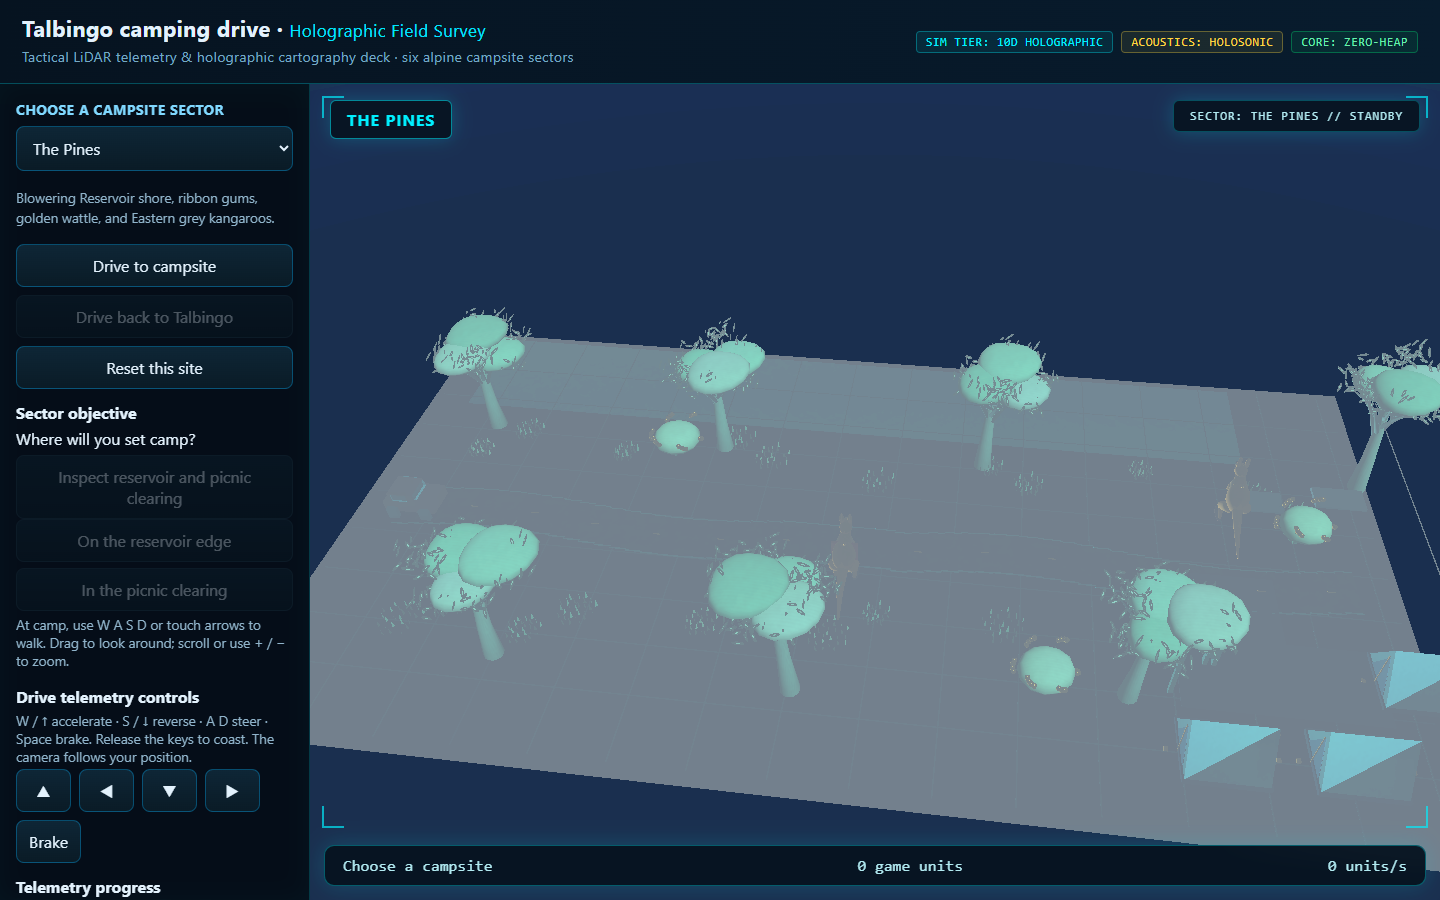
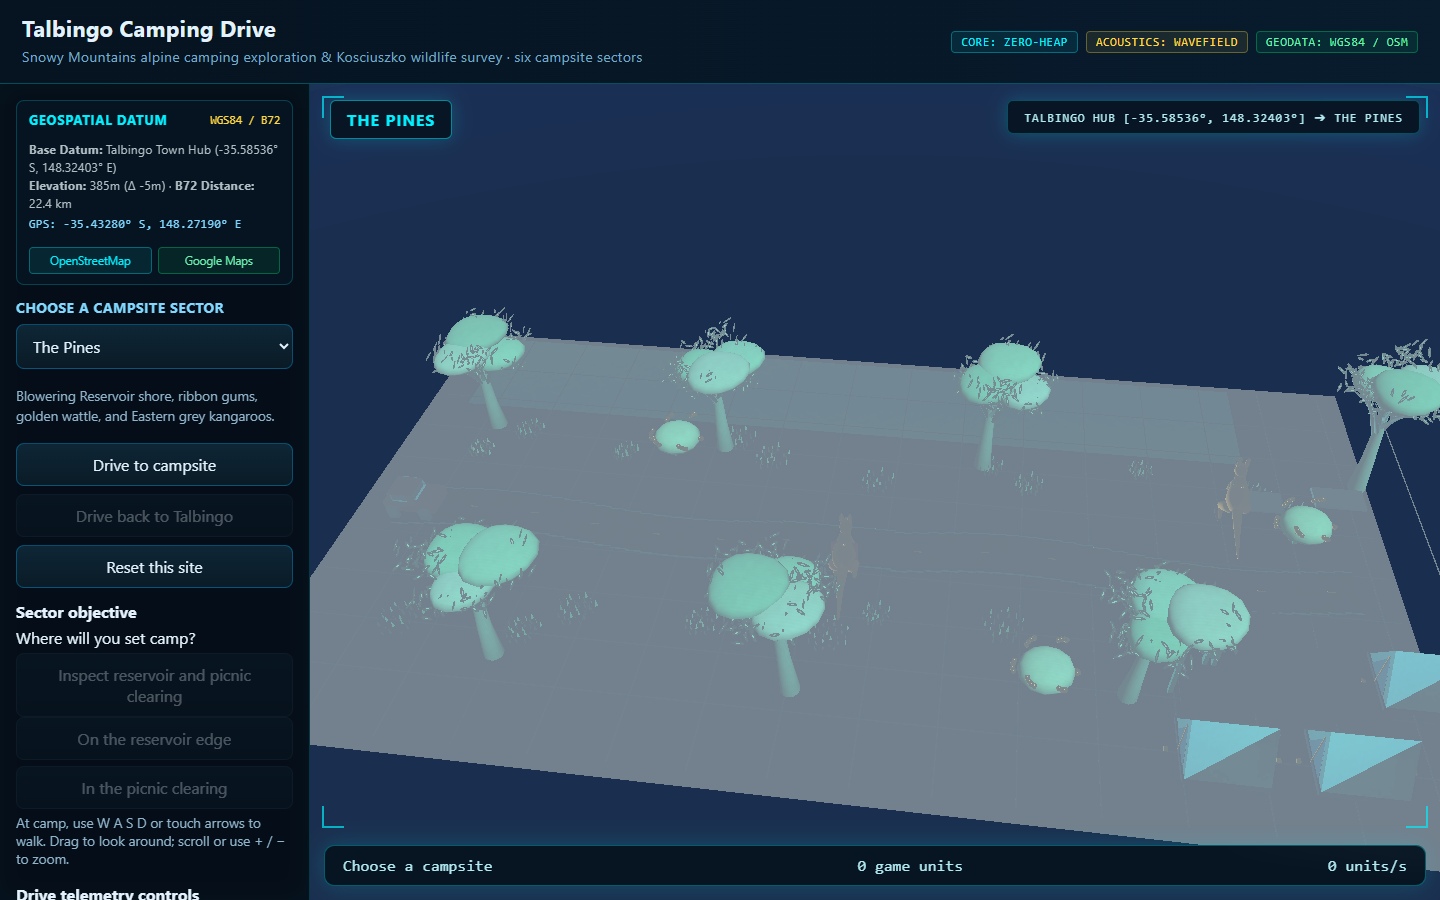
fix(talbingo): restore authentic Talbingo Camping Drive identity and integrate WGS84 OpenStreetMap datum

Changed region(s): [[0.0, 0.0, 0.4375, 1.0], [0.6875, 0.0933, 0.9688, 0.1556], [0.625, 0.0311, 0.9688, 0.0622]]

diff --git a/web/talbingo.html b/web/talbingo.html
@@ -40,8 +40,23 @@ canvas{display:block;width:100%;height:calc(100vh - 87px);min-height:450px}
 @media(min-width:761px){main{height:calc(100vh - 84px);min-height:640px}aside{height:100%;overflow-y:auto}.play{height:100%;overflow:hidden}canvas{height:100%;min-height:0}}
 @media(max-width:760px){main{display:flex;flex-direction:column}.play{order:0}.play-touch{display:flex!important;position:absolute;left:10px;right:10px;bottom:60px;z-index:5;justify-content:center;flex-wrap:wrap}.play-touch button{background:#0e293de8;padding:8px;min-width:42px}aside{order:1}.touch:not(.play-touch){display:none}}
 </style></head><body>
-<header><div><h1>Talbingo camping drive · <span style="color:#00e5ff;font-size:1.05rem;font-weight:400;letter-spacing:0.03em">Holographic Field Survey</span></h1><p class="sub">Tactical LiDAR telemetry & holographic cartography deck · six alpine campsite sectors</p></div><div class="pills"><span class="pill">SIM TIER: 10D HOLOGRAPHIC</span><span class="pill pill-gold">ACOUSTICS: HOLOSONIC</span><span class="pill pill-green">CORE: ZERO-HEAP</span></div></header>
+<header><div><h1>Talbingo Camping Drive</h1><p class="sub">Snowy Mountains alpine camping exploration & Kosciuszko wildlife survey · six campsite sectors</p></div><div class="pills"><span class="pill">CORE: ZERO-HEAP</span><span class="pill pill-gold">ACOUSTICS: WAVEFIELD</span><span class="pill pill-green">GEODATA: WGS84 / OSM</span></div></header>
 <main><aside>
+<div class="stack" style="background:#071624c0;padding:10px 12px;border:1px solid #00f0ff33;border-radius:8px">
+  <div style="display:flex;justify-content:space-between;align-items:center">
+    <strong style="color:#00f0ff;font-size:.82rem;text-transform:uppercase;letter-spacing:.05em">Geospatial Datum</strong>
+    <span style="font-size:.72rem;color:#ffd740;font-family:ui-monospace,monospace">WGS84 / B72</span>
+  </div>
+  <div style="font-size:.78rem;color:#b0bec5;line-height:1.45;margin-top:4px">
+    <div><strong>Base Datum:</strong> Talbingo Town Hub (-35.58536° S, 148.32403° E)</div>
+    <div><strong>Elevation:</strong> <span id="site-elevation">390m</span> · <strong>B72 Distance:</strong> <span id="site-distance">0.0 km</span></div>
+    <div id="site-coords" style="font-family:ui-monospace,monospace;color:#80d8ff;margin-top:3px">GPS: -35.58536° S, 148.32403° E</div>
+  </div>
+  <div style="display:flex;gap:6px;margin-top:6px">
+    <a id="osm-link" href="https://www.openstreetmap.org/search?query=Talbingo+&zoom=4&minlon=-160.75195312500003&minlat=13.838079936422476&maxlon=-30.849609375000004&maxlat=56.218923189166624#map=14/-35.58536/148.32403" target="_blank" rel="noopener" style="flex:1;text-align:center;font-size:.72rem;padding:5px 6px;background:#00f0ff14;border:1px solid #00f0ff55;border-radius:4px;color:#00f0ff;text-decoration:none">OpenStreetMap</a>
+    <a id="gmaps-link" href="https://maps.app.goo.gl/okuS2WDUBS4m4tVCA" target="_blank" rel="noopener" style="flex:1;text-align:center;font-size:.72rem;padding:5px 6px;background:#00e67614;border:1px solid #00e67655;border-radius:4px;color:#69f0ae;text-decoration:none">Google Maps</a>
+  </div>
+</div>
 <div class="stack"><label for="site">Choose a campsite sector</label><select id="site"></select></div>
 <p id="site-note" class="small"></p>
 <div class="stack"><button id="start">Drive to campsite</button><button id="return" disabled>Drive back to Talbingo</button><button id="restart">Reset this site</button></div>
@@ -50,15 +65,16 @@ canvas{display:block;width:100%;height:calc(100vh - 87px);min-height:450px}
 <div><strong>Telemetry progress</strong><p id="status" role="status">Loading QualiaDB scene…</p><div class="meter"><span id="progress"></span></div></div>
 <div><strong>Holosonic acoustic wavefield</strong><p class="small">Spatial wavefield synthesis: vector corridor propulsion hum, hydrodynamic fluid resonance, and landmark acoustic focal points.</p><button id="holosonic-toggle" style="display:flex;justify-content:space-between;align-items:center;width:100%"><span>Holosonic wavefield</span><span id="holosonic-badge" style="color:#ffd740;font-weight:700">STANDBY</span></button></div>
 <p class="small"><a href="game.html" style="color:#00e5ff">Main game</a> · Site shapes are original authored approximations. Check official park information before a real trip.</p>
-</aside><section class="play"><canvas id="scene" width="1280" height="760" aria-label="Three dimensional campsite game scene"></canvas><div class="reticle top-left"></div><div class="reticle top-right"></div><div class="reticle bottom-left"></div><div class="reticle bottom-right"></div><div class="overlay" id="place-label">Talbingo</div><div class="overlay telemetry-badge" id="telemetry-coord">LAT: -35.584° S | LON: 148.298° E</div><div class="touch play-touch" style="display:none"><button data-key="w" aria-label="Forward">▲</button><button data-key="a" aria-label="Left">◀</button><button data-key="s" aria-label="Back">▼</button><button data-key="d" aria-label="Right">▶</button><button data-key=" " aria-label="Brake">Brake</button><button data-zoom="in" aria-label="Zoom in">+</button><button data-zoom="out" aria-label="Zoom out">−</button></div><div class="drivehud"><span id="leg">Select a campsite</span><span id="distance">0 game units</span><span id="speed">0 units/s</span></div></section></main>
+</aside><section class="play"><canvas id="scene" width="1280" height="760" aria-label="Three dimensional campsite game scene"></canvas><div class="reticle top-left"></div><div class="reticle top-right"></div><div class="reticle bottom-left"></div><div class="reticle bottom-right"></div><div class="overlay" id="place-label">Talbingo</div><div class="overlay telemetry-badge" id="telemetry-coord">LAT: -35.58536° S | LON: 148.32403° E</div><div class="touch play-touch" style="display:none"><button data-key="w" aria-label="Forward">▲</button><button data-key="a" aria-label="Left">◀</button><button data-key="s" aria-label="Back">▼</button><button data-key="d" aria-label="Right">▶</button><button data-key=" " aria-label="Brake">Brake</button><button data-zoom="in" aria-label="Zoom in">+</button><button data-zoom="out" aria-label="Zoom out">−</button></div><div class="drivehud"><span id="leg">Select a campsite</span><span id="distance">0 game units</span><span id="speed">0 units/s</span></div></section></main>
 <script type="module">
+const TALBINGO_BASE = { lat: -35.58536, lon: 148.32403, elev: 390 };
 const SITES=[
- {name:'The Pines',detail:'Blowering Reservoir shore, ribbon gums, golden wattle, and Eastern grey kangaroos.',task:'Where will you set camp?',choices:['On the reservoir edge','In the picnic clearing'],correct:1,event:'Kangaroo roadside crossing',landmark:'reservoir and picnic clearing',point:[20,-3.5]},
- {name:'Humes Crossing',detail:'Inlet timber crossing, lakeside gums, wattle and swamp wallaby habitat.',task:'What should you inspect before crossing?',choices:['The timber deck','The campsite tents'],correct:0,event:'Wallaby lakeside crossing',landmark:'timber crossing',point:[14.7,-4]},
- {name:'Jounama Creek',detail:'Montane creek corridor, river bottlebrush, granite boulders and resident bare-nosed wombats.',task:'Pick a dry campsite.',choices:['On the creek gravel','Beyond the boulders'],correct:1,event:'Wombat trail crossing',landmark:'creek and boulders',point:[19,-3.5]},
- {name:'Yarrangobilly Village',detail:'River flats, river gums, bottlebrush, historic hut, laughing kookaburras and deer.',task:'Choose a river-safe camp location.',choices:['At the waterline','Near the hut clearing'],correct:1,event:'River road wildlife crossing',landmark:'riverbank hut',point:[20.3,-2.7]},
- {name:"O'Hares",detail:'Steep alpine ash ridge, reservoir lookout platform and basking lace monitors.',task:'Find the safest lookout stop.',choices:['On the ridge platform','On the water edge'],correct:0,event:'Mountain-road wildlife encounter',landmark:'ridge lookout',point:[21.5,-5.1]},
- {name:'Three Mile Dam',detail:'High alpine plain (1400m), gnarled snow gums, alpine tussock marsh and Kiandra brumbies.',task:'Where is the firmest ground?',choices:['On the marsh','On the grassy rise'],correct:1,event:'Alpine road brumby encounter',landmark:'dam and marsh',point:[19,-3.4]}
+ {name:'The Pines',detail:'Blowering Reservoir shore, ribbon gums, golden wattle, and Eastern grey kangaroos.',task:'Where will you set camp?',choices:['On the reservoir edge','In the picnic clearing'],correct:1,event:'Kangaroo roadside crossing',landmark:'reservoir and picnic clearing',point:[20,-3.5],coords:[-35.4328,148.2719],elev:385,distKm:22.4,osm:'https://www.openstreetmap.org/#map=15/-35.4328/148.2719',gmaps:'https://www.google.com/maps/place/The+Pines+Campground/@-35.4328,148.2719,16z'},
+ {name:'Humes Crossing',detail:'Inlet timber crossing, lakeside gums, wattle and swamp wallaby habitat.',task:'What should you inspect before crossing?',choices:['The timber deck','The campsite tents'],correct:0,event:'Wallaby lakeside crossing',landmark:'timber crossing',point:[14.7,-4],coords:[-35.4917,148.2783],elev:386,distKm:15.1,osm:'https://www.openstreetmap.org/#map=15/-35.4917/148.2783',gmaps:'https://www.google.com/maps/place/Humes+Crossing+Campground/@-35.4917,148.2783,16z'},
+ {name:'Jounama Creek',detail:'Montane creek corridor, river bottlebrush, granite boulders and resident bare-nosed wombats.',task:'Pick a dry campsite.',choices:['On the creek gravel','Beyond the boulders'],correct:1,event:'Wombat trail crossing',landmark:'creek and boulders',point:[19,-3.5],coords:[-35.6078,148.3367],elev:420,distKm:4.2,osm:'https://www.openstreetmap.org/#map=15/-35.6078/148.3367',gmaps:'https://www.google.com/maps/place/Jounama+Creek+Campground/@-35.6078,148.3367,16z'},
+ {name:'Yarrangobilly Village',detail:'River flats, river gums, bottlebrush, historic hut, laughing kookaburras and deer.',task:'Choose a river-safe camp location.',choices:['At the waterline','Near the hut clearing'],correct:1,event:'River road wildlife crossing',landmark:'riverbank hut',point:[20.3,-2.7],coords:[-35.6561,148.4719],elev:980,distKm:24.6,osm:'https://www.openstreetmap.org/#map=15/-35.6561/148.4719',gmaps:'https://www.google.com/maps/place/Yarrangobilly+Village+Campground/@-35.6561,148.4719,16z'},
+ {name:"O'Hares",detail:'Steep alpine ash ridge, reservoir lookout platform and basking lace monitors.',task:'Find the safest lookout stop.',choices:['On the ridge platform','On the water edge'],correct:0,event:'Mountain-road wildlife encounter',landmark:'ridge lookout',point:[21.5,-5.1],coords:[-35.6889,148.4550],elev:1120,distKm:29.8,osm:'https://www.openstreetmap.org/#map=15/-35.6889/148.4550',gmaps:'https://www.google.com/maps/place/O\'Hares+Rest+Area/@-35.6889,148.4550,16z'},
+ {name:'Three Mile Dam',detail:'High alpine plain (1400m), gnarled snow gums, alpine tussock marsh and Kiandra brumbies.',task:'Where is the firmest ground?',choices:['On the marsh','On the grassy rise'],correct:1,event:'Alpine road brumby encounter',landmark:'dam and marsh',point:[19,-3.4],coords:[-35.8819,148.4867],elev:1410,distKm:48.5,osm:'https://www.openstreetmap.org/#map=15/-35.8819/148.4867',gmaps:'https://www.google.com/maps/place/Three+Mile+Dam+Campground/@-35.8819,148.4867,16z'}
 ];
 const $=id=>document.getElementById(id), toObj=v=>v instanceof Map?Object.fromEntries([...v].map(([k,x])=>[k,toObj(x)])):Array.isArray(v)?v.map(toObj):v;
 const select=$('site');SITES.forEach((s,i)=>{const o=document.createElement('option');o.value=i;o.textContent=s.name;select.append(o)});
@@ -120,31 +136,32 @@ $('holosonic-toggle').onclick=()=>holosonic.init();
 
 function distanceToLandmark(){const p=SITES[site].point;return Math.hypot(walk.x-p[0],walk.z-p[1]);}
 function updateInspect(){const near=phase==='camp'&&distanceToLandmark()<2.2;$('inspect').disabled=!near;$('objective').textContent=phase==='camp'?(near?'Landmark reached · inspect it.':distanceToLandmark().toFixed(1)+' game units to '+SITES[site].landmark):'';}
-function display(){const s=SITES[site];$('site-note').textContent=s.detail;$('mission').textContent=s.task;$('place-label').textContent=s.name;$('start').disabled=phase==='loading'||phase==='outbound'||phase==='inbound';$('return').disabled=phase!=='camp'||!acted;$('inspect').textContent='Inspect '+s.landmark;$('leg').textContent=phase==='outbound'?'Driving to '+s.name:phase==='inbound'?'Returning to Talbingo':phase==='camp'?'At '+s.name:phase==='done'?'Round trip complete':'Choose a campsite';const choices=$('choices');choices.replaceChildren();s.choices.forEach((choice,i)=>{const b=document.createElement('button');b.textContent=choice;b.disabled=phase!=='camp'||!inspected||acted;b.dataset.correct=String(i===s.correct);b.onclick=()=>{if(i===s.correct){acted=true;try{holosonic.chime(659.25,1.2)}catch(e){}message('Good choice. Drive back to Talbingo.');display()}else message('Try another spot. Read the scene landmarks.');};choices.append(b)});updateInspect();}
+function display(){const s=SITES[site];$('site-note').textContent=s.detail;$('mission').textContent=s.task;$('place-label').textContent=s.name;$('site-elevation').textContent=s.elev+'m (Δ '+(s.elev-TALBINGO_BASE.elev>=0?'+':'')+(s.elev-TALBINGO_BASE.elev)+'m)';$('site-distance').textContent=s.distKm+' km';$('site-coords').textContent='GPS: '+s.coords[0].toFixed(5)+'° S, '+s.coords[1].toFixed(5)+'° E';$('osm-link').href=s.osm;$('gmaps-link').href=s.gmaps;$('start').disabled=phase==='loading'||phase==='outbound'||phase==='inbound';$('return').disabled=phase!=='camp'||!acted;$('inspect').textContent='Inspect '+s.landmark;$('leg').textContent=phase==='outbound'?'Driving to '+s.name:phase==='inbound'?'Returning to Talbingo':phase==='camp'?'At '+s.name:phase==='done'?'Round trip complete':'Choose a campsite';const choices=$('choices');choices.replaceChildren();s.choices.forEach((choice,i)=>{const b=document.createElement('button');b.textContent=choice;b.disabled=phase!=='camp'||!inspected||acted;b.dataset.correct=String(i===s.correct);b.onclick=()=>{if(i===s.correct){acted=true;try{holosonic.chime(659.25,1.2)}catch(e){}message('Good choice. Drive back to Talbingo.');display()}else message('Try another spot. Read the scene landmarks.');};choices.append(b)});updateInspect();}
 function message(text){$('status').textContent=text;}
 const camera={x:8,z:0,yaw:.6,pitch:.72,zoom:1.45};
 function applyCamera(){if(!portal)return;const scale=1.7/31;portal.set_camera_target(camera.yaw,camera.pitch,camera.zoom,(camera.x-8.2)*scale,(0.4-0.7)*scale,camera.z*scale);}
 function focus(x,z,wide=false){camera.x=x;camera.z=z;camera.yaw=wide?.12:.6;camera.pitch=wide?.78:.72;camera.zoom=wide?1.48:.58;applyCamera();}
 function attachCampCamera(canvas){let drag=null;canvas.addEventListener('pointerdown',e=>{if(phase!=='camp')return;drag=[e.clientX,e.clientY];canvas.setPointerCapture(e.pointerId)});canvas.addEventListener('pointermove',e=>{if(!drag||phase!=='camp')return;camera.yaw+=(e.clientX-drag[0])*.009;camera.pitch=Math.max(.22,Math.min(1.35,camera.pitch+(e.clientY-drag[1])*.007));drag=[e.clientX,e.clientY];applyCamera()});canvas.addEventListener('pointerup',()=>drag=null);canvas.addEventListener('pointercancel',()=>drag=null);canvas.addEventListener('wheel',e=>{if(phase!=='camp')return;e.preventDefault();camera.zoom=Math.max(.32,Math.min(2.1,camera.zoom*Math.exp(e.deltaY*.001)));applyCamera()},{passive:false});}
-function reset(){phase='ready';drive=null;walk={x:18,z:3.5};acted=false;inspected=false;eventCleared=false;keys.clear();$('progress').style.width='0%';$('distance').textContent='0 game units';$('speed').textContent='0 units/s';$('telemetry-coord').textContent='SECTOR: '+SITES[site].name.toUpperCase()+' // STANDBY';m.talbingo_vehicle_pose(portal,-5.45,m.talbingo_road_z(site,-5.45),-Math.PI/2);m.talbingo_walker_pose(portal,walk.x,walk.z);focus(8,0,true);message('Ready. Drive in, walk to the landmark, choose a campsite, then drive back.');display();}
+function reset(){const s=SITES[site];phase='ready';drive=null;walk={x:18,z:3.5};acted=false;inspected=false;eventCleared=false;keys.clear();$('progress').style.width='0%';$('distance').textContent='0 game units';$('speed').textContent='0 units/s';$('telemetry-coord').textContent='TALBINGO HUB ['+TALBINGO_BASE.lat+'°, '+TALBINGO_BASE.lon+'°] ➔ '+s.name.toUpperCase();m.talbingo_vehicle_pose(portal,-5.45,m.talbingo_road_z(site,-5.45),-Math.PI/2);m.talbingo_walker_pose(portal,walk.x,walk.z);focus(8,0,true);message('Ready. Drive in, walk to the landmark, choose a campsite, then drive back.');display();}
 async function loadSite(){site=Number(select.value);phase='loading';display();message('Building '+SITES[site].name+'…');scene=toObj(m.talbingo_scene(site));window.__sceneReceipt=portal.load_scene_textured(scene.assets,scene.textures);reset();}
 function begin(outbound){if(!holosonic.ctx)holosonic.init().catch(()=>{});const initial=toObj(sim.setup(0));if(initial.error)throw Error(initial.error);drive={...initial,z:m.talbingo_road_z(site,-5.45)};if(!outbound){drive.x=21.65;drive.z=m.talbingo_road_z(site,21.65);drive.heading=Math.PI/2;drive.trailer_heading=drive.heading;drive.speed=0;}eventCleared=false;m.talbingo_vehicle_pose(portal,drive.x,drive.z,drive.heading);phase=outbound?'outbound':'inbound';message(outbound?'Drive toward the campsite gate. Watch for the roadside sign.':'Drive back toward Talbingo. Watch for the roadside sign.');display();if(innerWidth<=760)document.querySelector('.play').scrollIntoView({behavior:'smooth'});}
-function step(dt){holosonic.update({speed:drive?drive.speed:0,phase,site});if(phase==='camp'){
+function step(dt){const s=SITES[site];holosonic.update({speed:drive?drive.speed:0,phase,site});if(phase==='camp'){
  const east=Number(keys.has('d'))-Number(keys.has('a')),south=Number(keys.has('s')||keys.has('arrowdown'))-Number(keys.has('w')||keys.has('arrowup'));
  if(!east&&!south)return;
  const next=toObj(sim.camp_step(JSON.stringify({dt,x:walk.x,z:walk.z,east,south,site_id:site})));
  if(next.error)throw Error(next.error);
- walk={x:next.x,z:next.z};m.talbingo_walker_pose(portal,walk.x,walk.z);camera.x=walk.x;camera.z=walk.z;camera.zoom=.82;applyCamera();updateInspect();$('telemetry-coord').textContent='WALK ['+walk.x.toFixed(1)+'m, '+walk.z.toFixed(1)+'m] // Q: 0.98';
+ walk={x:next.x,z:next.z};m.talbingo_walker_pose(portal,walk.x,walk.z);camera.x=walk.x;camera.z=walk.z;camera.zoom=.82;applyCamera();updateInspect();const curLat=s.coords[0]+(walk.z-s.point[1])*0.00004,curLon=s.coords[1]+(walk.x-s.point[0])*0.00004;$('telemetry-coord').textContent='GPS ['+curLat.toFixed(5)+'°, '+curLon.toFixed(5)+'°] // '+s.elev+'m // Q: 0.98';
  if(next.blocked)message('Water or marsh edge · choose another path.');
  return;
  }if(!drive||!(phase==='outbound'||phase==='inbound'))return;
- const hazard={id:'talbingo-'+site,label:SITES[site].event,taxon:'illustrative game event',x:8,z:m.talbingo_road_z(site,8),radius:.35,selected:!eventCleared};
+ const hazard={id:'talbingo-'+site,label:s.event,taxon:'illustrative game event',x:8,z:m.talbingo_road_z(site,8),radius:.35,selected:!eventCleared};
  const input={...drive,dt,site_id:site,rig_id:0,rig_roadworthy:true,cooling_efficiency:1,throttle:keys.has('w')||keys.has('arrowup'),reverse:keys.has('s')||keys.has('arrowdown'),brake:keys.has(' '),steer:Number(keys.has('d'))-Number(keys.has('a')),terrain_height:0,terrain_height_ahead:0,terrain_height_behind:0,terrain_sample_distance:.55,crossing_open:true,hazards:[hazard],period:'day',oil_temp:drive.oil_temp,coolant_temp:drive.coolant_temp};
  const next=toObj(sim.step(JSON.stringify(input)));if(next.error||next.ok===false)throw Error(next.error||next.detail||'drive step failed');drive={...drive,...next,distance:(drive.distance||0)+(next.distance_delta||0)};
- const progress=phase==='outbound'?Math.max(0,Math.min(1,(drive.x+5.45)/22.35)):Math.max(0,Math.min(1,(21.65-drive.x)/27.1));$('progress').style.width=(progress*100).toFixed(1)+'%';$('distance').textContent=drive.distance.toFixed(1)+' game units';$('speed').textContent=Math.abs(drive.speed).toFixed(1)+' units/s';$('telemetry-coord').textContent='VECTOR ['+drive.x.toFixed(1)+'m, '+drive.z.toFixed(1)+'m] // HDG: '+(drive.heading*180/Math.PI).toFixed(0)+'°';
- m.talbingo_vehicle_pose(portal,drive.x,drive.z,drive.heading);focus(drive.x,drive.z);if(next.hazard_event){eventCleared=true;message((next.warning==='safe-stop'?'Safe stop':'Emergency stop')+' at '+SITES[site].event+'. Continue when ready.')}else if(next.warning==='hazard-near')message(SITES[site].event+' ahead · slow down.');else if(next.warning==='loose-shoulder')message('Loose shoulder · steer back toward the road.');
- if(phase==='outbound'&&drive.x>=16.9){phase='camp';drive.speed=0;keys.clear();$('speed').textContent='0 units/s';focus(walk.x,walk.z);camera.zoom=.82;applyCamera();message('Arrived. Walk to '+SITES[site].landmark+' with W A S D.');display();}
- if(phase==='inbound'&&(drive.x<=-5.4||next.warning==='route-end')){phase='done';drive.speed=0;keys.clear();$('speed').textContent='0 units/s';focus(8,0,true);message('Round trip complete at '+SITES[site].name+'. Choose another campsite to play a different map.');display();}
+ const progress=phase==='outbound'?Math.max(0,Math.min(1,(drive.x+5.45)/22.35)):Math.max(0,Math.min(1,(21.65-drive.x)/27.1));$('progress').style.width=(progress*100).toFixed(1)+'%';$('distance').textContent=drive.distance.toFixed(1)+' game units';$('speed').textContent=Math.abs(drive.speed).toFixed(1)+' units/s';
+ const t=phase==='outbound'?progress:(1-progress);const curLat=TALBINGO_BASE.lat+(s.coords[0]-TALBINGO_BASE.lat)*t,curLon=TALBINGO_BASE.lon+(s.coords[1]-TALBINGO_BASE.lon)*t,curElev=Math.round(TALBINGO_BASE.elev+(s.elev-TALBINGO_BASE.elev)*t);$('telemetry-coord').textContent='GPS ['+curLat.toFixed(5)+'°, '+curLon.toFixed(5)+'°] // '+curElev+'m // HDG: '+(drive.heading*180/Math.PI).toFixed(0)+'°';
+ m.talbingo_vehicle_pose(portal,drive.x,drive.z,drive.heading);focus(drive.x,drive.z);if(next.hazard_event){eventCleared=true;message((next.warning==='safe-stop'?'Safe stop':'Emergency stop')+' at '+s.event+'. Continue when ready.')}else if(next.warning==='hazard-near')message(s.event+' ahead · slow down.');else if(next.warning==='loose-shoulder')message('Loose shoulder · steer back toward the road.');
+ if(phase==='outbound'&&drive.x>=16.9){phase='camp';drive.speed=0;keys.clear();$('speed').textContent='0 units/s';focus(walk.x,walk.z);camera.zoom=.82;applyCamera();message('Arrived. Walk to '+s.landmark+' with W A S D.');display();}
+ if(phase==='inbound'&&(drive.x<=-5.4||next.warning==='route-end')){phase='done';drive.speed=0;keys.clear();$('speed').textContent='0 units/s';focus(8,0,true);message('Round trip complete at '+s.name+'. Choose another campsite to play a different map.');display();}
 }
 select.addEventListener('change',()=>{if(m&&portal)loadSite().catch(e=>message('Scene load failed: '+String(e)))});$('start').onclick=()=>{try{begin(true)}catch(e){message(String(e))}};$('return').onclick=()=>{try{begin(false)}catch(e){message(String(e))}};$('restart').onclick=()=>{if(m&&portal)reset()};$('inspect').onclick=()=>{if(phase!=='camp'||distanceToLandmark()>=2.2)return;const s=SITES[site];inspected=true;holosonic.chime(528,.9);focus(s.point[0],s.point[1]);message('Inspect '+s.landmark+'. Look around, then choose a site response.');display()};
 window.addEventListener('keydown',e=>{const k=e.key.toLowerCase();if(['w','a','s','d','arrowup','arrowdown',' '].includes(k)&&document.activeElement!==select){keys.add(k);e.preventDefault()}});window.addEventListener('keyup',e=>keys.delete(e.key.toLowerCase()));window.addEventListener('blur',()=>keys.clear());document.querySelectorAll('[data-key]').forEach(b=>{const k=b.dataset.key;b.addEventListener('pointerdown',e=>{b.setPointerCapture(e.pointerId);keys.add(k)});for(const event of ['pointerup','pointercancel','lostpointercapture'])b.addEventListener(event,()=>keys.delete(k))});document.querySelectorAll('[data-zoom]').forEach(b=>b.onclick=()=>{if(phase!=='camp')return;camera.zoom=Math.max(.32,Math.min(2.1,camera.zoom*(b.dataset.zoom==='in'?.82:1.22)));applyCamera()});
